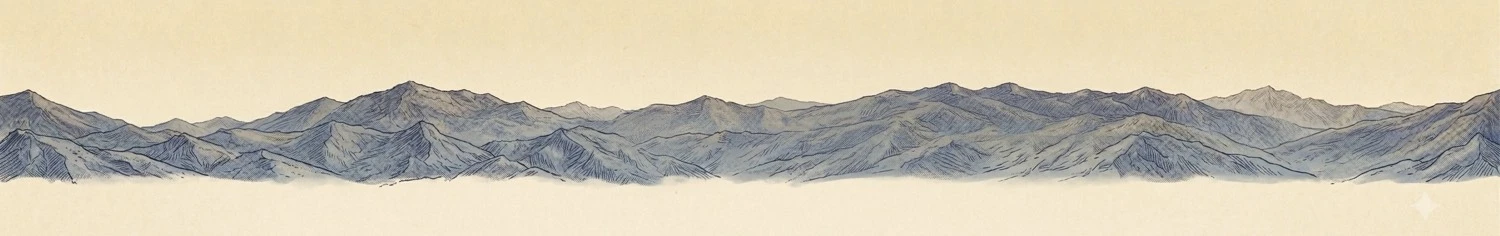
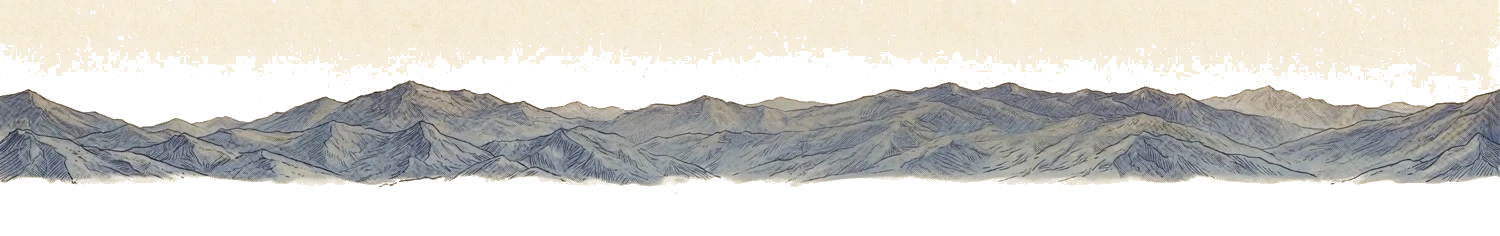
Add files via upload

diff --git a/index.html b/index.html
@@ -7,8 +7,8 @@
 <meta name="apple-mobile-web-app-status-bar-style" content="black-translucent" />
 <meta name="format-detection" content="telephone=no" />
 <title>Airborne Aces</title>
-<link rel="stylesheet" href="style.css?v=ruff9">
-<link rel="stylesheet" href="blimp-profile.css?v=ruff9">
+<link rel="stylesheet" href="style.css?v=ruff10">
+<link rel="stylesheet" href="blimp-profile.css?v=ruff10">
 </head>
 <body>
 
@@ -380,21 +380,21 @@
   </div>
 </div>
 
-<script src="assets-placeholders.js?v=ruff9"></script>
-<script src="blimp-profile.js?v=ruff9"></script>
-<script src="menu-intro.js?v=ruff9"></script>
-<script src="world-map.js?v=ruff9"></script>
-<script src="audio.js?v=ruff9"></script>
-<script src="asset-loading.js?v=ruff9"></script>
-<script src="ruff-tutorial.js?v=ruff9"></script>
-<script src="world-buildings.js?v=ruff9"></script>
-<script src="player-obstacles.js?v=ruff9"></script>
-<script src="bosses.js?v=ruff9"></script>
-<script src="boss-dialogue.js?v=ruff9"></script>
-<script src="effects-combat.js?v=ruff9"></script>
-<script src="gamestate-ui.js?v=ruff9"></script>
-<script src="world-atmosphere.js?v=ruff9"></script>
-<script src="main-loop.js?v=ruff9"></script>
+<script src="assets-placeholders.js?v=ruff10"></script>
+<script src="blimp-profile.js?v=ruff10"></script>
+<script src="menu-intro.js?v=ruff10"></script>
+<script src="world-map.js?v=ruff10"></script>
+<script src="audio.js?v=ruff10"></script>
+<script src="asset-loading.js?v=ruff10"></script>
+<script src="ruff-tutorial.js?v=ruff10"></script>
+<script src="world-buildings.js?v=ruff10"></script>
+<script src="player-obstacles.js?v=ruff10"></script>
+<script src="bosses.js?v=ruff10"></script>
+<script src="boss-dialogue.js?v=ruff10"></script>
+<script src="effects-combat.js?v=ruff10"></script>
+<script src="gamestate-ui.js?v=ruff10"></script>
+<script src="world-atmosphere.js?v=ruff10"></script>
+<script src="main-loop.js?v=ruff10"></script>
 
 </body>
 </html>

diff --git a/ruff-tutorial.js b/ruff-tutorial.js
@@ -299,7 +299,8 @@
       if (ruffLines.length) showRadio(ruffLines[0], 2.8);
       window.__airborneAirfieldObstacles = true;
       window.__airborneAirfieldRings = false;
-      if (typeof spawnInterval !== "undefined") spawnInterval = 1.15; // more obstacles
+      if (typeof spawnInterval !== "undefined") spawnInterval = 1.15;
+      if (typeof obstacles !== "undefined") obstacles = [];
       ruffWaitingAvoid = true;
     } else if (name === "powerup") {
       if (ruffLines.length) showRadio(ruffLines[0], 2.8);
@@ -736,13 +737,20 @@
       ruffCrystals = [];
       if (typeof powerup !== "undefined") powerup = null;
       if (typeof shieldPickup !== "undefined") shieldPickup = null;
-      // Wait for spawned birds to clear after practice window
+      // Practice window, then stop spawning so the sky can clear
+      if (ruffStageT > 10) {
+        window.__airborneAirfieldObstacles = false;
+        if (typeof spawnInterval !== "undefined") spawnInterval = 999;
+      }
       const obsCount = (typeof obstacles !== "undefined" && obstacles) ? obstacles.length : 0;
       if (ruffStageT > 12 && obsCount === 0) {
         showRadio("Excellent. Avoid those and you keep your hearts.", 3.0);
         ruffStats.obstaclesAvoided += 3;
         nextStage();
-      } else if (ruffStageT > 30 && obsCount === 0) {
+      } else if (ruffStageT > 18) {
+        // Force advance — clear leftover birds so next lesson is clean
+        if (typeof obstacles !== "undefined") obstacles = [];
+        ruffStats.obstaclesAvoided += 3;
         nextStage();
       }
     } else if (ruffStage === "powerup") {

diff --git a/world-atmosphere.js b/world-atmosphere.js
@@ -286,10 +286,10 @@
     if (!img || !img.complete || !img.naturalWidth || !img.naturalHeight) return;
     mountainReady = true;
     const aspect = img.naturalHeight / img.naturalWidth;
-    // ~half screen tall; bottom of range at bottom of canvas
-    const tileH = Math.max(H * 0.50, 160);
+    // ~half screen tall; bottom of graphic hangs off bottom of screen
+    const tileH = Math.max(H * 0.52, 160);
     const tileW = tileH / aspect;
-    const y = H - tileH * 0.92;
+    const y = H - tileH * 0.72; // lower portion off-screen
     if (!drawMountainParallax._tiles || drawMountainParallax._tileW !== tileW) {
       drawMountainParallax._tiles = [];
       drawMountainParallax._tileW = tileW;
@@ -314,8 +314,8 @@
     const aspect = img.naturalHeight / img.naturalWidth;
     const tileH = Math.max(H * 0.50, 160);
     const tileW = tileH / aspect;
-    // Slower than clouds (clouds use ~0.15–0.35 * dtScale)
-    let mSpeed = 0.08;
+    // Still under typical clouds, but 2× previous mountain speed
+    let mSpeed = 0.16;
     if (typeof worldScrollFrozen === "function" && worldScrollFrozen()) mSpeed = 0;
     if (!drawMountainParallax._tiles || drawMountainParallax._tileW !== tileW) {
       drawMountainParallax._tiles = [];
